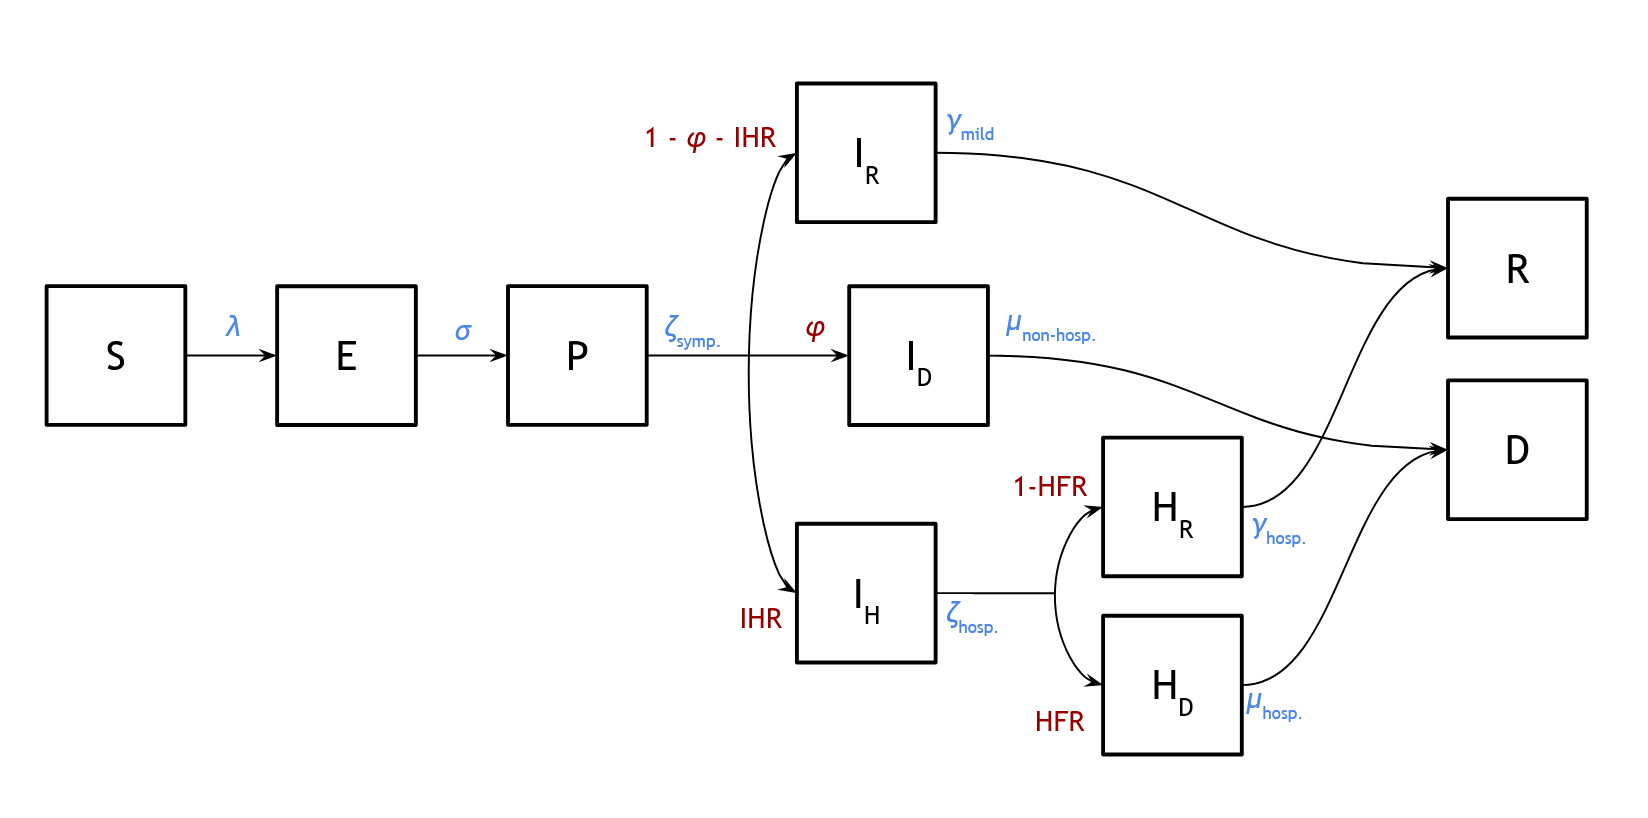
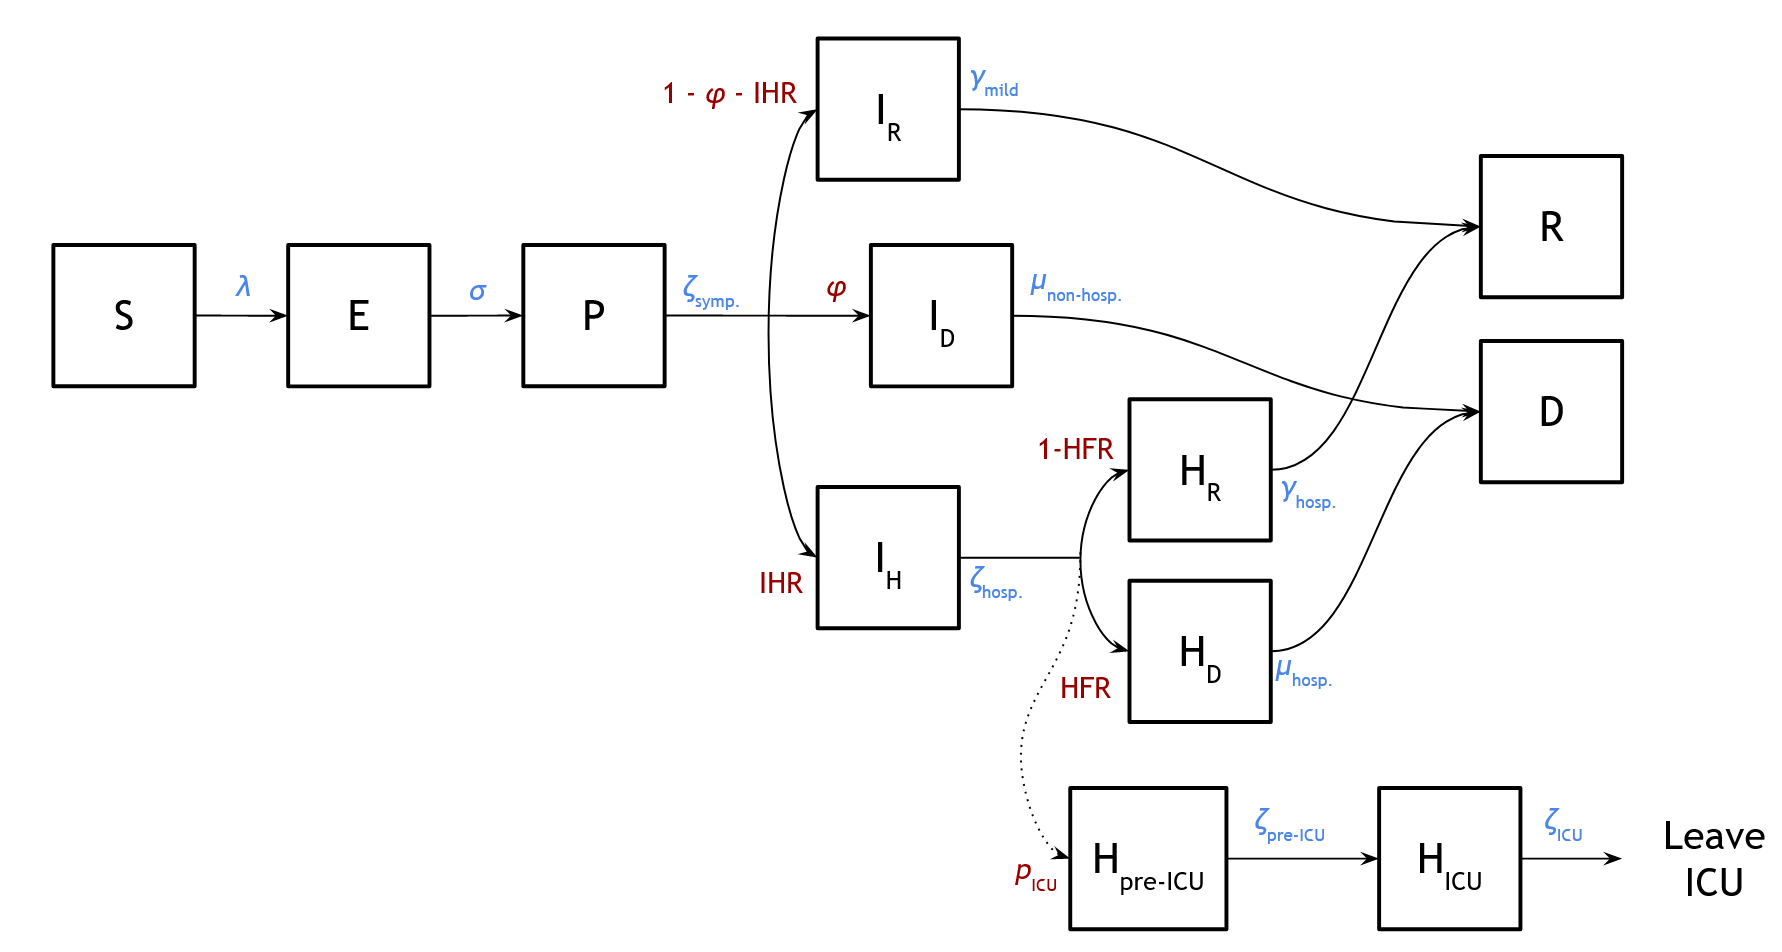
Added ICUs

diff --git a/README.md b/README.md
@@ -15,6 +15,7 @@ People who enter the presymptomatic infectious class (P) either develop symptoms
 We assume that the duration of infectiousness for asymptomatic infections is the same as the duration of infectiousness for mild symptomatic infections, and therefore do not explicitly model an asymptomatic compartment.
 Presymptomatic infections are divided into non-hospitalized infections (I<sub>R</sub> and I<sub>D</sub>) and infections that require hospitalization (I<sub>H</sub>).
 Hospitalized infections are either discharged (H<sub>R</sub>) or die in the hospital (H<sub>D</sub>).
+To model ICU occupancy, we sample a fraction of all hospital admissions (p<sub>ICU</sub>) and simulate their trajectory through the ICU (H<sub>pre-ICU</sub> and H<sub>ICU</sub>).
 
 ![Figure 1](model_diagram.png)
 Rate parameters (blue) determine the average amount of time in each compartment.
@@ -31,7 +32,7 @@ Incomplete hospital reporting means that not all deaths and hospital admissions 
 Although the model tracks all underlying infections and deaths, it assumes only a fraction will be confirmed and counted.
 
 ### Inference
-For each region in Illinois, we infer the transmission rate at 13 timepoints and assume that the transmission rate changes linearly between each timepoint.
+For each region in Illinois, we infer the transmission rate at several timepoints and assume that the transmission rate changes linearly between each timepoint.
 We also infer region-specific parameters governing the hospital course: the infection hospitalization ratio (IHR), the time-varying hospitalization fatality ratio (HFR) and the time-varying duration of the hospital stay.
 To account for deaths that occur without hospitalization, we infer a region-specific probability that a non-hospitalized infection ends in death.  
 Other parameters are fixed based on values from the literature ([Parameters](./Parameters)).

diff --git a/Forecasting/README.md b/Forecasting/README.md
@@ -27,6 +27,7 @@ Figure 4: Estimated fraction of the population that has recovered in the state o
 
 ## Changelog
 ### 2020-12-10
+* Added ICUs to model.
 * Changed changepoint times for regions 1, 2, 4, 9, and 11 based on fitting a segmented regression to R(t) estimates.
 
 ### 2020-11-25
